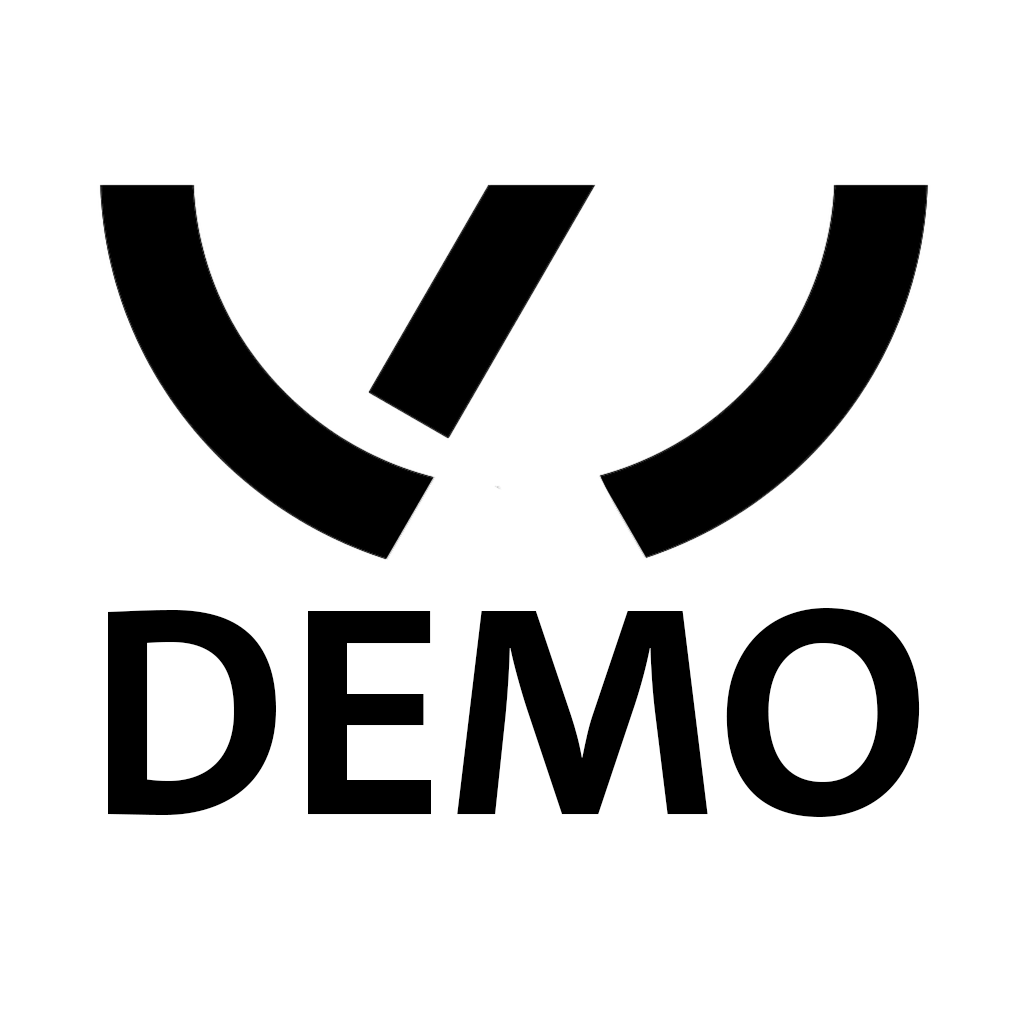
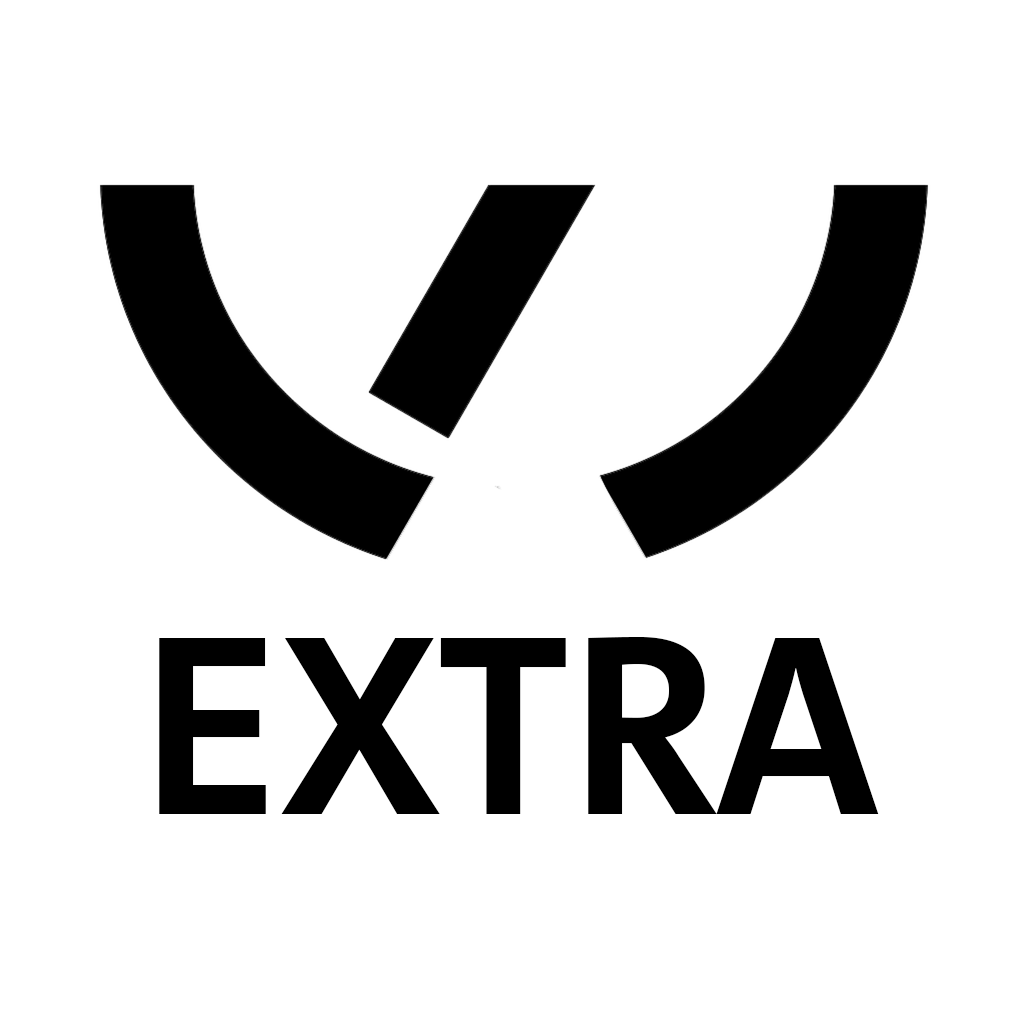
change app name from demo to extra

Changed region(s): [[0.0938, 0.5938, 0.9062, 0.8125]]

diff --git a/components/AppNameWithLogo.js b/components/AppNameWithLogo.js
@@ -21,7 +21,7 @@ export default AppNameWithLogo = () => {
           source={require('../assets/images/tiw-app-logo-less-whitespace.png')}
           style={baseStyles.imageAppLogo}
         />
-        <Text style={baseStyles.textAppName}>Pocket Infoweb Demo</Text>
+        <Text style={baseStyles.textAppName}>Pocket Infoweb Extra</Text>
       </View>
     </View>
   );
